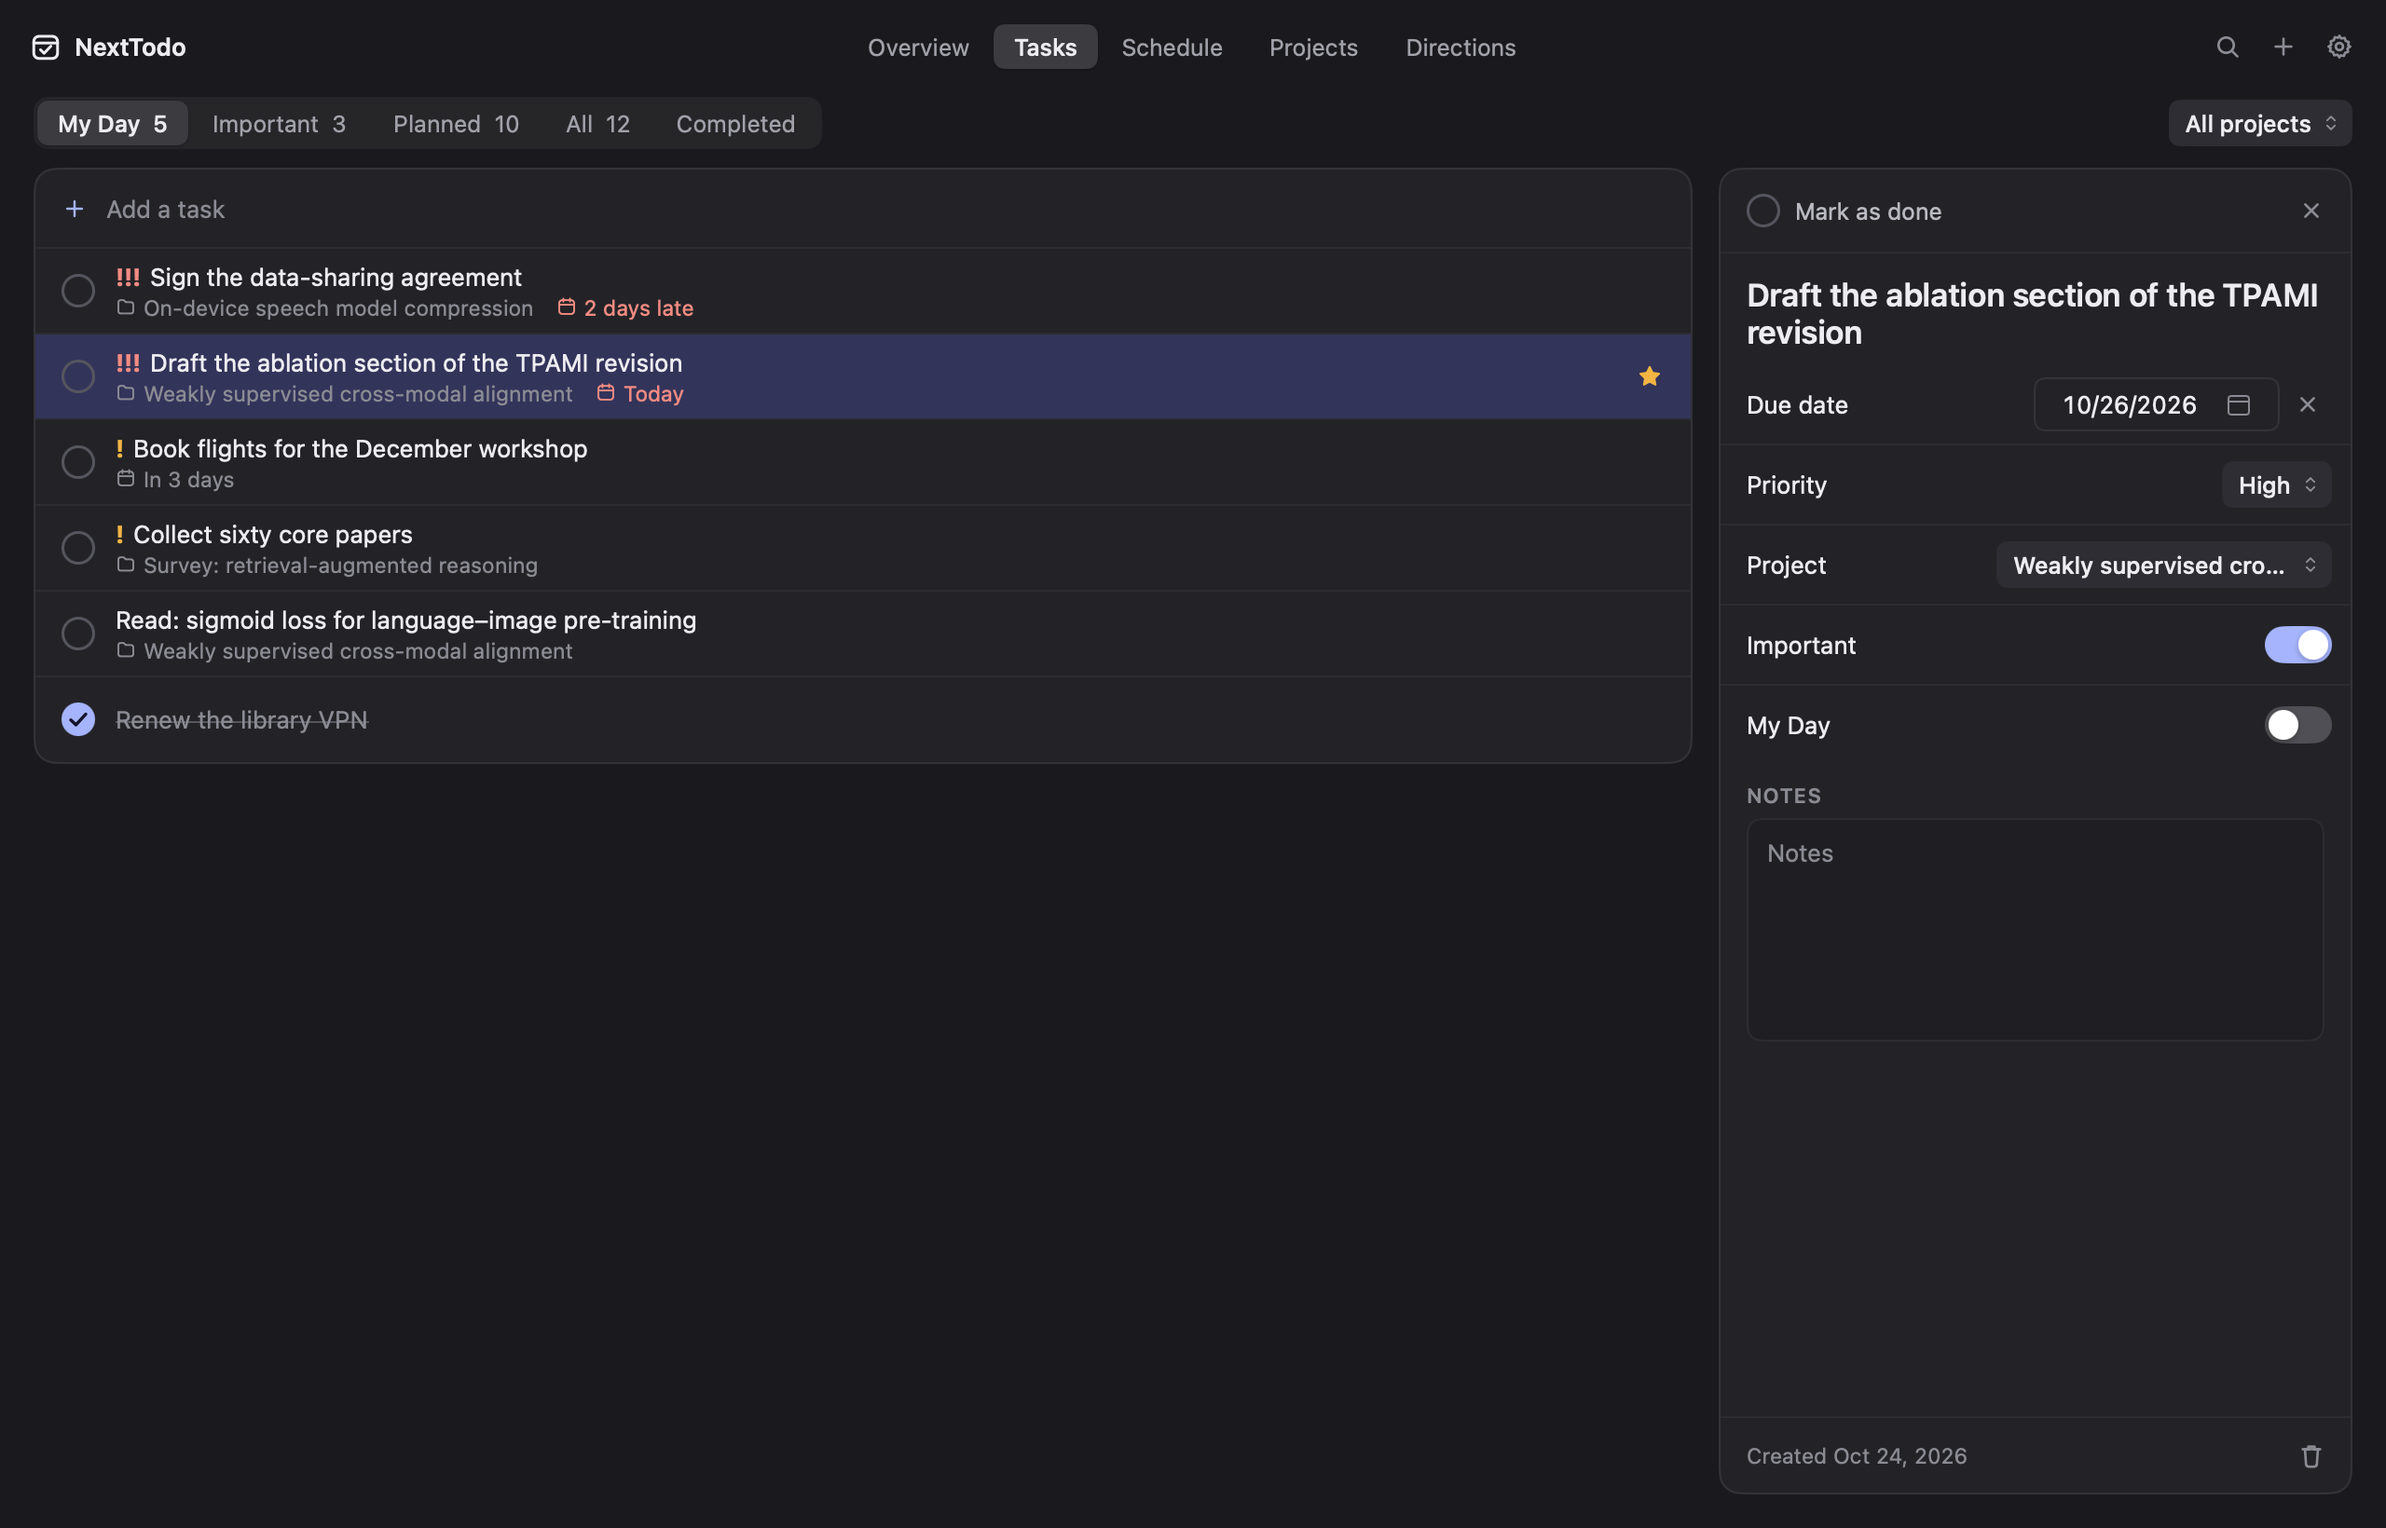
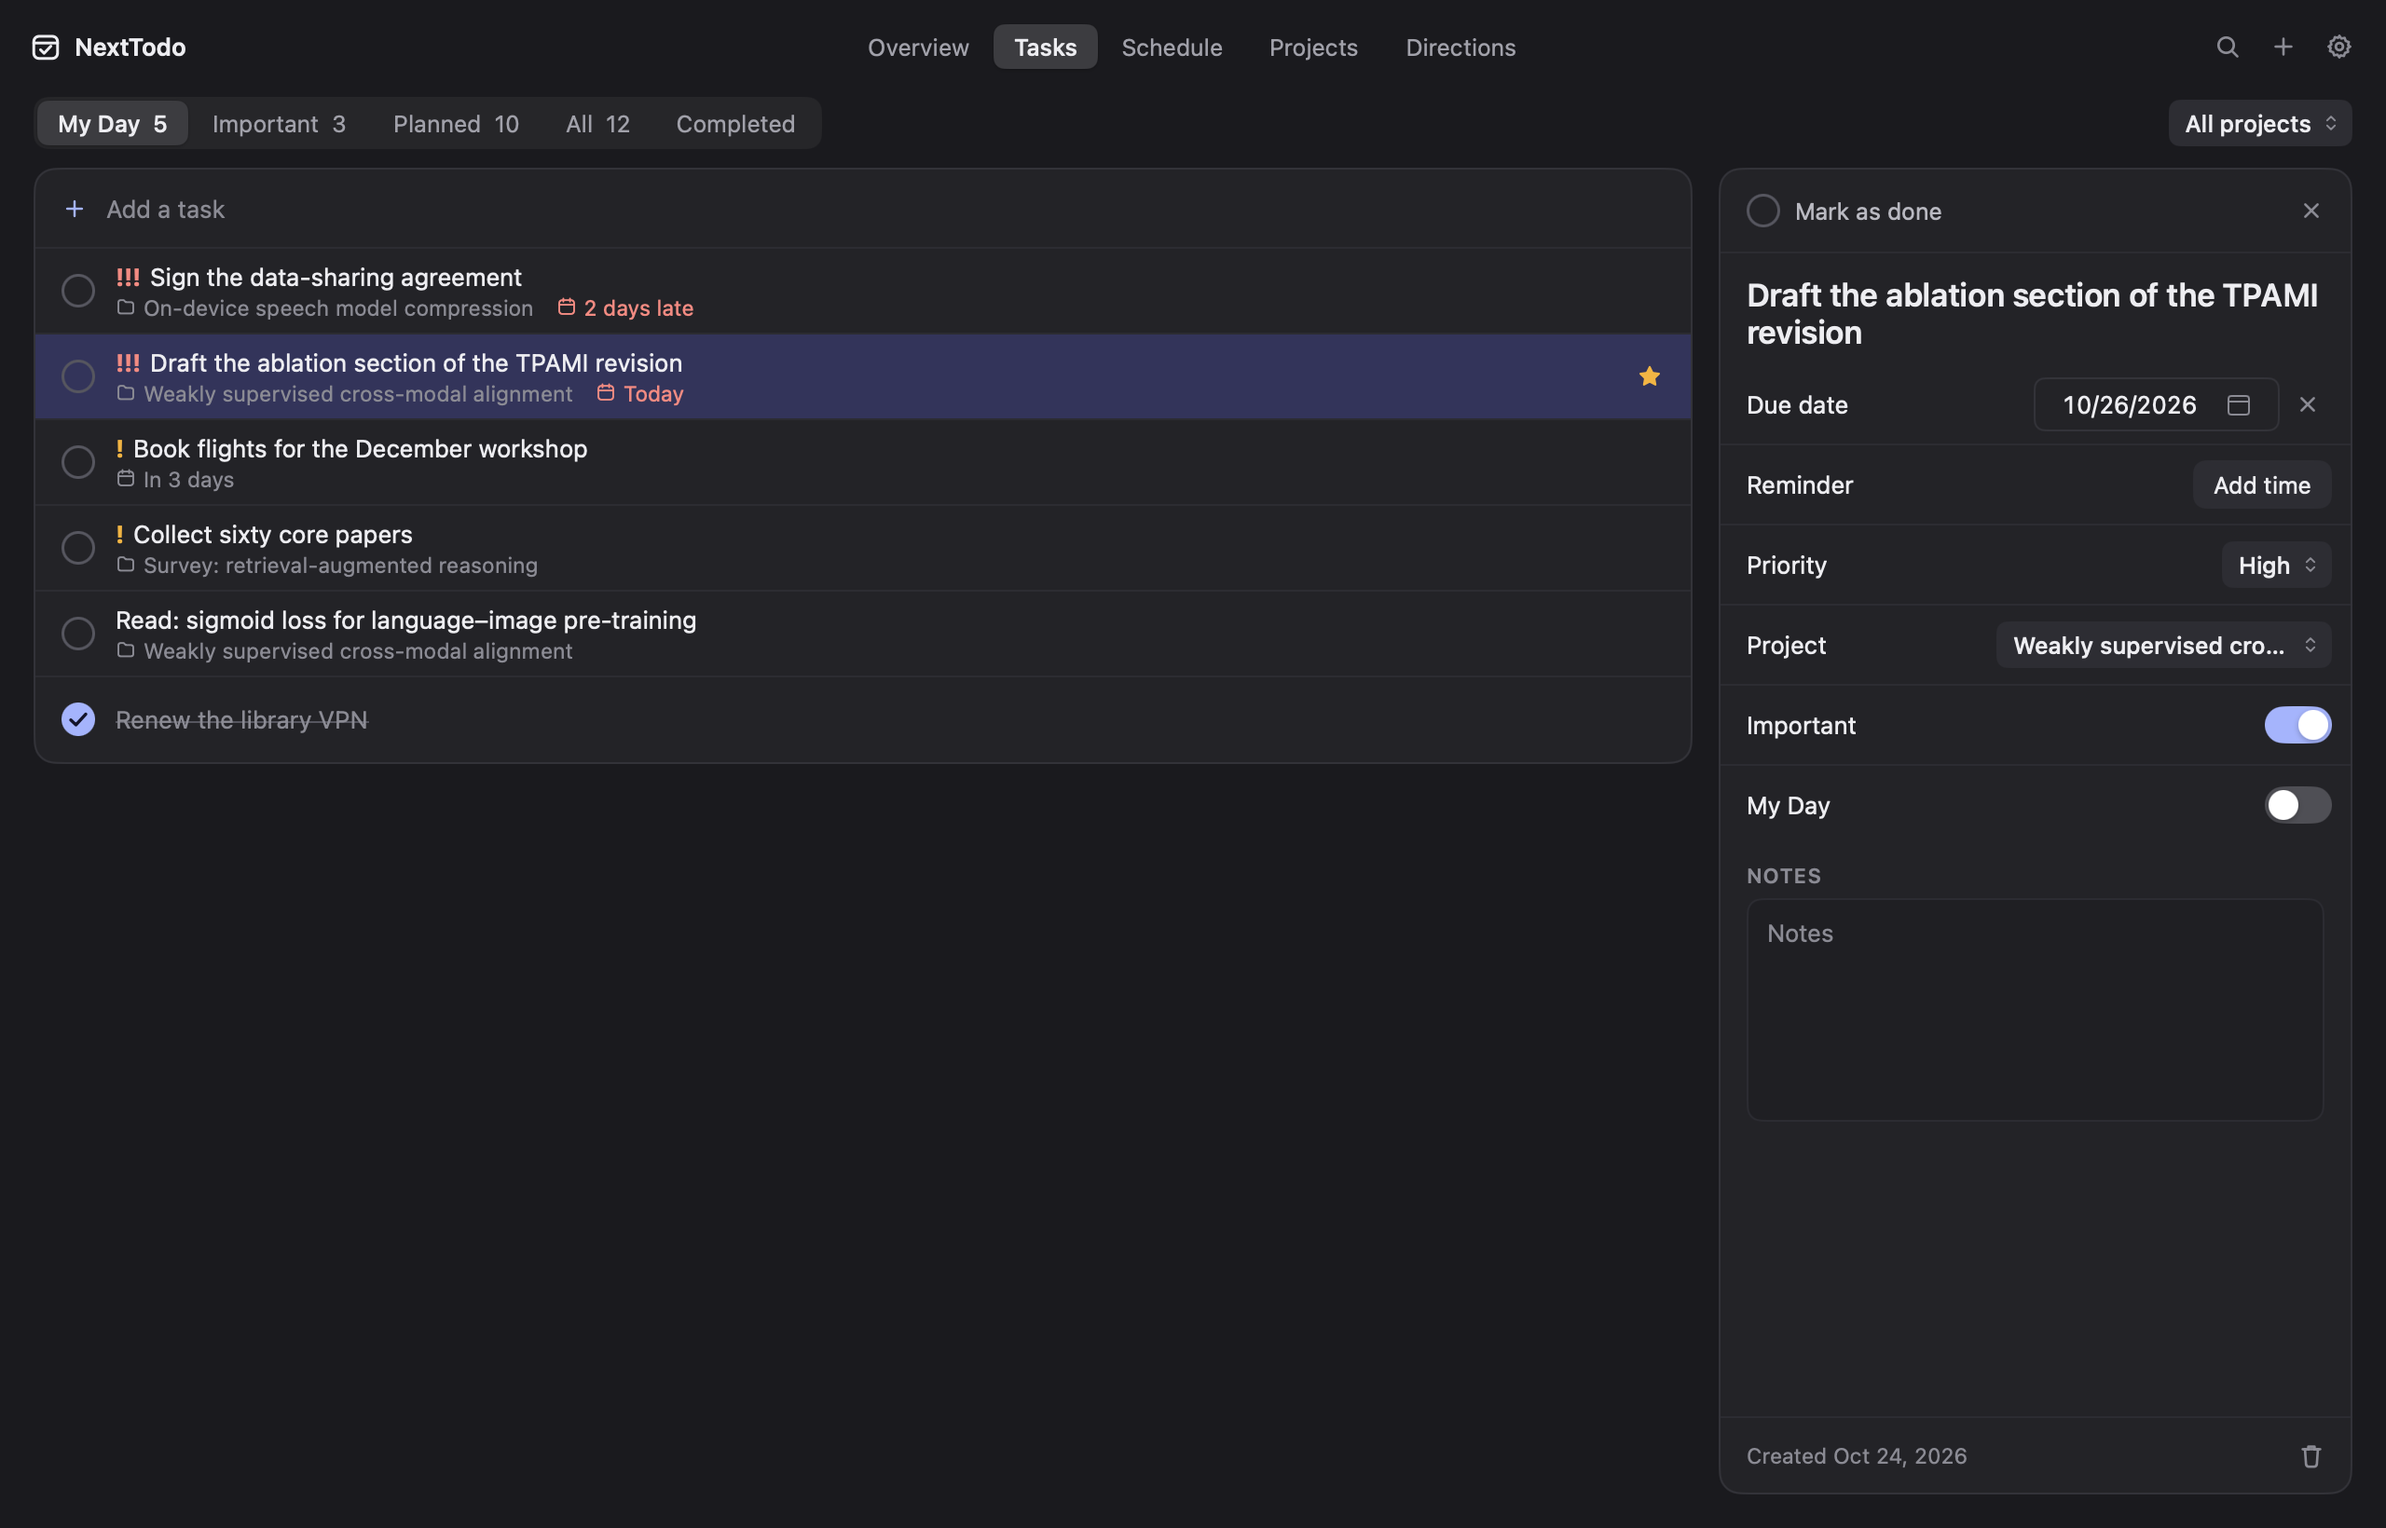
NextTodo 0.4.0

diff --git a/settings.go b/settings.go
@@ -241,7 +241,7 @@ func appVersion() string {
 	if v := mygo.App.Version(); v != "" {
 		return v
 	}
-	return "0.3.0"
+	return "0.4.0"
 }
 
 func (a *app) setLanguage(tag string) {

diff --git a/CHANGELOG.md b/CHANGELOG.md
@@ -17,6 +17,19 @@
 
 - Reminders: a task can remind you on a day at a time, set beside its due date or typed with it ("Call Lin tomorrow 3pm"). A click on the notification opens the task; a bell in its row, and in the menu bar, says when.
 
+**Typing the time**
+
+- Fewer words are read as times or dates: 一点, 第2点, a task's 1:50, "1/3 of", "2 may". Chinese hours in words need their part of the day or more than 点 (下午三点, 三点半).
+- The night: 晚上12点, "tonight at 12" and "at midnight" are the midnight coming; 05:30 is as written; ranges over midnight (10pm-2am, 晚上11点到凌晨1点) keep their length.
+- A time already gone today is tomorrow's, and the chip says so.
+- Years (2026年10月30日, 10/30/2026, Nov 3rd 2027), "Friday next week", the weekend and 下周末.
+- In the menu bar, an event's day no longer carries over to the next line.
+
+**Fixed**
+
+- Undo puts back each field the deletion changed and nothing changed since, and the days a series skips one by one; undoing a large erase is quick.
+- Calendars: repeat rules follow their own zone's days, every-other-week rules start in the right week, cancelled and changed occurrences are skipped even when they come in a file of their own, and odd files (a byte-order mark, an unreadable start, Windows zone names) import.
+
 ## 0.3.0
 
 **Projects**
